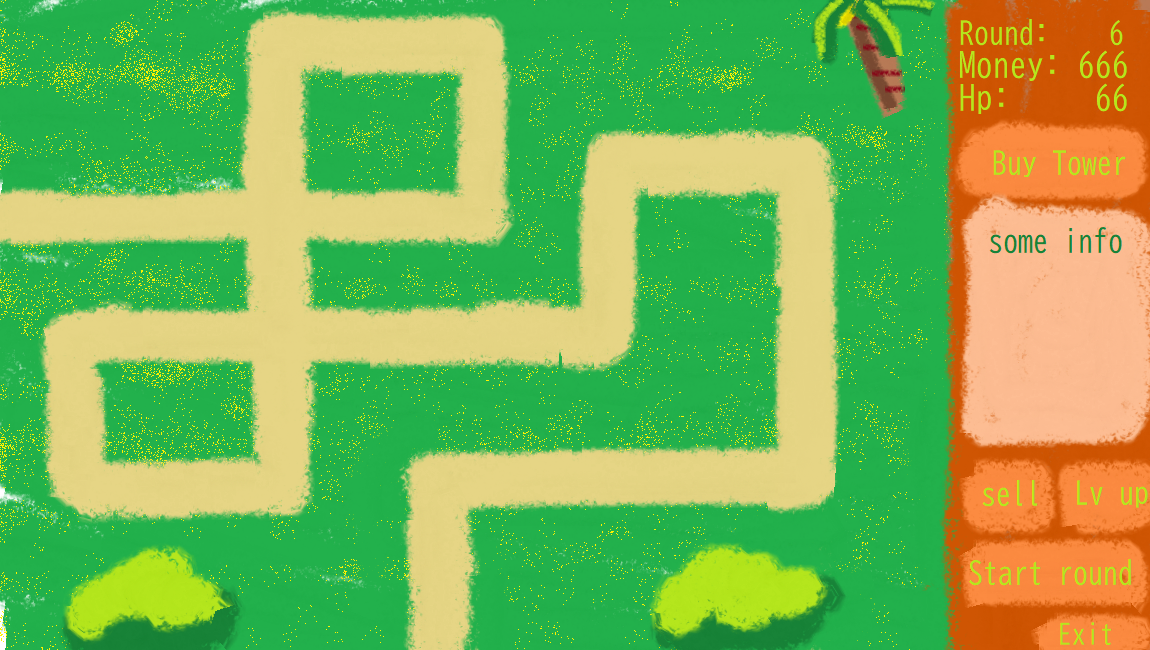
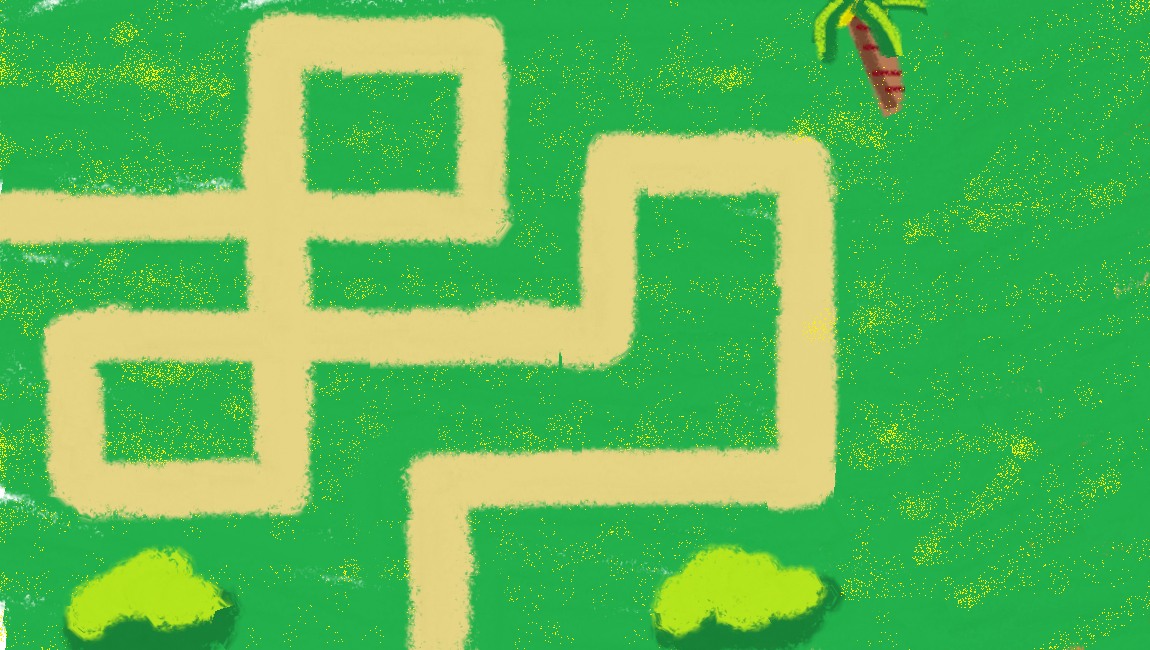
debug Ending, add map

diff --git a/core/src/com/balloontd/game/EndingPage.java b/core/src/com/balloontd/game/EndingPage.java
@@ -37,12 +37,11 @@ public class EndingPage extends Actor {
         backgroundImage = new Image(new TextureRegion(backgroundTexture));
         backgroundImage.setPosition(0, 0);
 
-        makeButton();
-
         pageTexture = new Texture("page.png");
         page = new Image(new TextureRegion(pageTexture));
         page.setPosition(BalloonTD.WORLD_WIDTH/2 - page.getWidth()/2,
                 BalloonTD.WORLD_HEIGHT/2 - page.getHeight()/2);
+        makeButton();
 
         font = new BitmapFont(Gdx.files.internal("font/ComicSansMS.fnt"));
     }
@@ -56,11 +55,9 @@ public class EndingPage extends Actor {
         style.over = new TextureRegionDrawable(new TextureRegion(returnToMenuTextureOn));
 
         returnToMenuButton = new Button(style);
-        returnToMenuButton.setVisible(false);
-        returnToMenuButton.setPosition(BalloonTD.WORLD_WIDTH/2 - page.getWidth()/2,
+        returnToMenuButton.setPosition(BalloonTD.WORLD_WIDTH/2 - returnToMenuButton.getWidth()/2 ,
                 page.getY() + 50);
 
-        gameScreen.addActor(returnToMenuButton);
 
         returnToMenuButton.addListener(new ClickListener(){
            @Override
@@ -72,6 +69,8 @@ public class EndingPage extends Actor {
 
     public void gameOver(boolean is_win){
         this.is_win = is_win;
+        gameScreen.addActor(this);
+        gameScreen.addActor(returnToMenuButton);
         if(is_win) {
             info = "You win";
         }else{

diff --git a/core/src/com/balloontd/game/GameScreen.java b/core/src/com/balloontd/game/GameScreen.java
@@ -9,11 +9,16 @@ import com.badlogic.gdx.math.Vector2;
 import com.badlogic.gdx.scenes.scene2d.Actor;
 import com.badlogic.gdx.scenes.scene2d.InputEvent;
 import com.badlogic.gdx.scenes.scene2d.Stage;
+import com.badlogic.gdx.scenes.scene2d.ui.Image;
 import com.badlogic.gdx.scenes.scene2d.utils.ClickListener;
 import com.badlogic.gdx.utils.viewport.StretchViewport;
 import com.balloontd.BalloonTD;
 import com.balloontd.game.monkeys.*;
 
+import java.awt.*;
+import java.awt.image.BaseMultiResolutionImage;
+import java.awt.image.ImageObserver;
+import java.awt.image.ImageProducer;
 import java.awt.image.SinglePixelPackedSampleModel;
 
 
@@ -24,6 +29,7 @@ public class GameScreen implements Screen{
     private RoundManager round_manager;
     private UserInterface userInterface;
     private BalloonTD balloon_td;
+    private Image map;
 
     private Trail trail;
     private Player player;
@@ -41,10 +47,11 @@ public class GameScreen implements Screen{
         stage = new Stage(new StretchViewport(
                 BalloonTD.WORLD_WIDTH, BalloonTD.WORLD_HEIGHT
         ));
-
+        map = new Image(new TextureRegion(new Texture("map.png")));
         dart_manager = new DartManager();
         monkey_manager = new MonkeyManager();
         bloon_manager = new BloonManager();
+        stage.addActor(map);
         stage.addActor(dart_manager);
         stage.addActor(monkey_manager);
         stage.addActor(bloon_manager);

diff --git a/core/src/com/balloontd/game/MonkeyInfo.java b/core/src/com/balloontd/game/MonkeyInfo.java
@@ -25,8 +25,8 @@ public class MonkeyInfo extends Actor {
 
         font = new BitmapFont(Gdx.files.internal("font/ComicSansMS.fnt"));
         font.getData().setScale(0.7F);
-        setNowInfo();
-        setUpgradeInfo();
+        //setNowInfo();
+        //setUpgradeInfo();
     }
 
     public void setMonkey(Monkey monkey){
